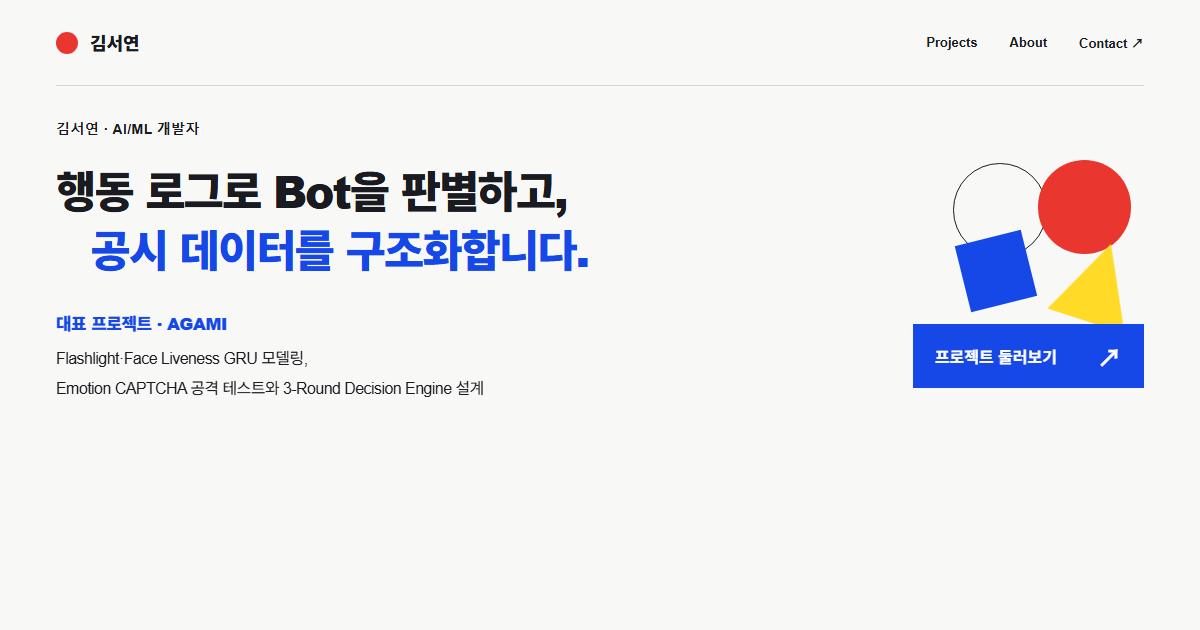
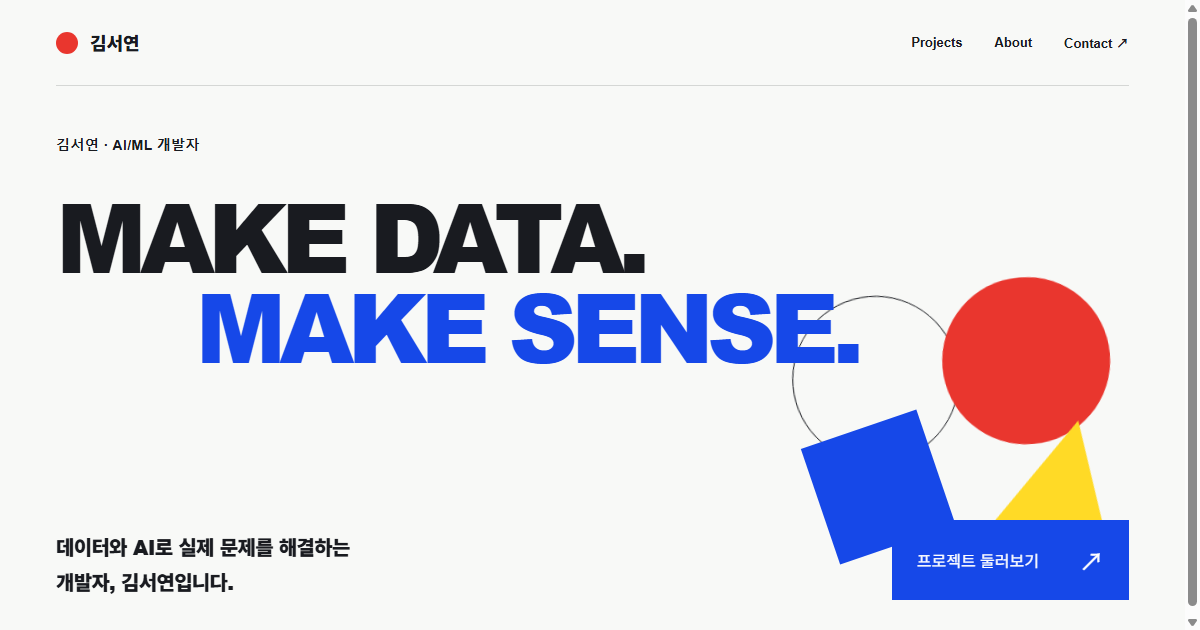
Restore original hero design

diff --git a/index.html b/index.html
@@ -63,17 +63,6 @@ html[data-motion="off"] :is(button,a):active{translate:none}
 
 /* Editorial pass: project evidence precedes decorative display. */
 html{scroll-padding-top:24px}
-.hero{padding:32px 0 24px;overflow:visible}
-.hero h1{max-width:calc(100% - 230px);margin:20px 0;font-size:clamp(30px,3.65vw,52px);line-height:1.35;letter-spacing:-.045em}
-.hero h1 span{white-space:normal;word-break:keep-all;overflow-wrap:anywhere}
-.hero h1 .second{margin-left:4%}
-.hero-art{top:74px;right:1%;width:180px;height:155px;animation:none}
-.hero-bottom{margin-top:28px;align-items:center}
-.hero-bottom p{max-width:700px;font-size:16px;line-height:1.85;word-break:keep-all}
-.hero-bottom strong{display:inline-block;color:var(--blue);font-size:17px;margin-bottom:5px}
-.ticket{min-height:48px;padding:14px 22px;font-weight:700;white-space:normal}
-.ticket:hover{transform:none;background:#1039bd}
-.shape:hover{filter:none;outline:1px solid var(--ink);outline-offset:5px}
 .section{padding:56px 0}
 .section h2{font-size:clamp(29px,3vw,42px);line-height:1.35;letter-spacing:-.035em}
 .section-label{font:13px/1.7 Arial,'Malgun Gothic',sans-serif;letter-spacing:.02em;margin-bottom:24px}
@@ -124,21 +113,10 @@ button:active,a:active{translate:none}
 a:focus-visible,button:focus-visible,summary:focus-visible{outline:3px solid var(--blue);outline-offset:3px}
 .contact a:focus-visible{outline-color:var(--yellow)}
 @media(max-width:900px){
- .hero h1{max-width:calc(100% - 145px);font-size:clamp(30px,4.8vw,40px)}
- .hero-art{width:115px;height:108px;top:100px}
- .hero-bottom{margin-top:24px;gap:24px}
  .feature-body{grid-template-columns:1fr}
  .section{padding:44px 0}
 }
 @media(max-width:600px){
- .hero{padding:24px 0 18px}
- .hero h1{max-width:100%;font-size:29px;margin:18px 0;line-height:1.4}
- .hero h1 .second{margin-left:0}
- .hero-art{width:57px;height:47px;top:15px;right:3px}
- .hero-bottom{margin-top:20px}
- .hero-bottom p{font-size:15px}
- .hero-bottom br{display:initial}
- .ticket{margin-top:18px;padding:12px 16px}
  .feature-head{gap:18px}
  .feature-head h2.agami-logo{width:72px;height:72px}
  .feature-head p{font-size:16px}
@@ -152,7 +130,7 @@ a:focus-visible,button:focus-visible,summary:focus-visible{outline:3px solid var
  .contact-arrow{font-size:13px;padding:10px 12px}
  .footer{margin-top:24px}
 }
-</style></head><body><a href="#main" class="skip">본문 바로가기</a><div class="progress" aria-hidden="true"></div><div class="wrap"><header><a href="#" class="brand" aria-label="김서연 포트폴리오 첫 화면"><span class="mark" aria-hidden="true"></span>김서연</a><nav aria-label="주요 메뉴"><a href="#agami">Projects</a><a href="#about">About</a><a href="#contact">Contact ↗</a></nav></header><main id="main"><section class="hero" aria-labelledby="hero-title"><div class="eyebrow">김서연 · AI/ML 개발자</div><h1 id="hero-title"><span>행동 로그로 Bot을 판별하고,</span><span class="second">공시 데이터를 구조화합니다.</span></h1><div class="hero-art" aria-hidden="true"><div class="shape outline"></div><div class="shape circle"></div><div class="shape square"></div><div class="shape triangle"></div></div><div class="hero-bottom"><p><strong>대표 프로젝트 · AGAMI</strong><br>Flashlight·Face Liveness GRU 모델링,<br>Emotion CAPTCHA 공격 테스트와 3-Round Decision Engine 설계</p><a href="#work" class="ticket">프로젝트 둘러보기 <span aria-hidden="true">↗</span></a></div></section><button class="motion-toggle" type="button" aria-pressed="false" aria-describedby="motion-status" hidden>애니메이션 끄기</button><p id="motion-status" class="motion-status" role="status"></p><section class="section rule" id="agami"><div class="section-label"><span>대표 프로젝트 / 01</span><span>2026.04 — 2026.07 · 4인 팀</span></div><div class="feature-head"><h2 class="agami-logo"><img src="./아가미로고.png" alt="AGAMI"></h2><div class="feature-intro"><span>행동 기반 CAPTCHA</span><p>행동·상황 이해·실시간 반응을 검증해<br>AI 공격을 방어하는 인터랙티브 CAPTCHA</p></div></div><div class="feature-body"><figure class="feature-media"><video controls playsinline preload="auto" aria-label="AGAMI CAPTCHA 시연 영상"><source src="./시연영상_아가미.mp4" type="video/mp4">브라우저가 MP4 영상을 지원하지 않습니다. <a href="./시연영상_아가미.mp4">시연 영상 열기</a></video></figure><div><p class="meta">담당 / ML 개발 및 검증</p><p class="role-summary">Flashlight·Face Liveness의 GRU 모델링, Emotion 공격 테스트·Weighted Sampling, 3-Round Decision Engine 설계를 맡았습니다.</p><div class="metric-lead">99.16<small>%</small></div><p class="metric-name">Flashlight CAPTCHA<br><strong>3-Round Bot Block Rate</strong> · 3회 누적 봇 차단율</p><div class="metrics-small"><div><strong>88.04%</strong><p>Flashlight 단일 모델<br>Accuracy</p></div><div><strong>5.94% → 0.53%</strong><p>Emotion CAPTCHA<br>Qwen Attack Pass Rate</p></div></div><a class="text-link" href="https://agami-captcha.cloud/" target="_blank" rel="noopener noreferrer">직접 체험해보기 <span aria-hidden="true">↗</span></a></div></div><details class="feature-details"><summary>문제 해결 과정과 기여 보기 <span class="plus" aria-hidden="true">+</span></summary><div class="detail-copy"><section class="case-block"><h3>문제와 내 역할</h3><p>기존 CAPTCHA가 AI에 의해 점점 쉽게 풀리는 문제에서 출발했습니다. 행동 데이터·상황 이해·실시간 반응을 검증하는 시스템에서 Flashlight·Face Liveness GRU 모델링, Emotion 공격 테스트·Weighted Sampling, 3-Round Decision Engine 설계를 맡았습니다.</p></section><section class="case-block"><h3>Flashlight · 이동 로그를 위험 점수로</h3><p>어두운 화면에서 손전등을 움직여 목표물을 찾는 방식입니다. x, y, time 로그에서 속도·가속도·방향 변화·이동 거리 등의 행동 특징을 추출하고, 시계열 특징은 GRU, 정적 특징은 MLP로 처리해 bot risk score를 산출합니다.</p><p>Flashlight 단일 모델 Accuracy는 <strong>88.04%</strong>, Flashlight 3-Round Bot Block Rate는 <strong>99.16%</strong>입니다. 서로 다른 지표로 구분해 평가했습니다.</p></section><section class="case-block"><h3>Emotion · 공격 테스트를 출제에 반영</h3><p>표정만으로 판단하기 어려운 상황 맥락 속 감정을 묻습니다. AI 공격 테스트에서 쉽게 맞히는 문제를 제거하고, 틀리는 문제의 출제 확률을 높이는 Weighted Sampling을 적용했습니다.</p><p>Emotion CAPTCHA의 Qwen Attack Pass Rate는 <strong>5.94% → 0.53%</strong>로 낮아졌습니다.</p></section><section class="case-block"><h3>Liveness · 원본 영상 대신 Landmark</h3><p>개인정보 관점에서 원본 영상 대신 Face / Hand Landmark Sequence를 사용하는 구조입니다. 얼굴의 시간적 변화는 GRU로 평가하고, 랜덤 손동작 미션은 별도로 판정해 최종 위험도에 반영합니다. 이 중 Face Liveness GRU 모델링을 담당했습니다.</p></section><section class="case-block"><h3>판단 · 단일 모델에서 누적 정책으로</h3><p>단일 모델 Accuracy만으로 실제 서비스의 안정성을 판단하기 어렵다는 점을 확인했습니다. 공격 성공 사례와 정상 사용자 오탐을 함께 분석하고 여러 라운드의 결과를 누적하는 정책을 설계하며 보안성과 사용성의 균형을 개선했습니다.</p></section><section class="case-block"><h3>한계 · 데이터 다양성과 추가 검증</h3><p>얼굴·손 데이터의 다양성이 충분하지 않아 정상 사용자 오탐과 새로운 공격 유형에 대한 추가 검증이 필요했습니다.</p><p class="case-tech">사용 기술: Python · PyTorch · scikit-learn · MediaPipe · OpenCV · GRU · CUDA</p></section></div></details></section><section class="section rule" id="work"><h2>데이터 분석과 서비스 개발</h2><p class="read-more-hint">프로젝트를 선택하면 과정과 기여, 결과를 자세히 볼 수 있습니다.</p><details class="project" id="project-2"><summary><span class="num">02</span><div><h3>DART Disclosure Analyst Agent</h3><p>DART 공시 데이터를 구조화하고 원공시와 정정공시의 관계를 추적할 수 있도록 설계한 공시 분석 Agent 프로젝트</p><span class="meta">2026.08 — 2026.09 / 데이터 파싱·전처리</span></div><span class="plus" aria-hidden="true">+</span></summary><div class="project-open"><div class="detail-copy"><p class="team">4인 팀 · 데이터 파싱·전처리</p><section class="case-block"><h4>범위와 문제</h4><p>약 <strong>4,204건</strong>의 공시, <strong>70개 기업</strong>, <strong>20개 산업군</strong>을 다뤘습니다. 정정된 공시를 이전 원문과 연결해 Agent가 오래된 내용을 사용하는 위험을 줄일 수 있는 데이터 구조가 핵심이었습니다.</p></section><section class="case-block"><h4>내 기여 · 파싱과 구조화</h4><p>JSON / XML을 파싱하고 공시 본문과 표를 구조화했습니다. 공통 스키마와 원공시–정정공시 연결 로직을 설계했습니다.</p></section><section class="case-block"><h4>정정공시 연결 순서</h4><ol><li>Explicit receipt link</li><li>Company + Report + Date</li><li>Classification fallback</li><li>Ambiguous</li><li>Unresolved</li></ol><p class="case-tech">사용 기술: Python · JSON · XML · Data Parsing · Data Preprocessing</p></section></div></div></details><details class="project" id="project-3"><summary><span class="num">03</span><div><h3>부동산 시장 × 소비 변화 분석</h3><p>부동산 가격 변화와 지역별 소비 변화의 관계를 분석하고 XGBoost Regression으로 소비 변화율을 예측한 프로젝트</p><span class="meta">2026.03 — 2026.04 / 데이터 전처리·모델링</span></div><span class="plus" aria-hidden="true">+</span></summary><div class="project-open"><div class="detail-copy"><p class="team">4인 팀 · 데이터 전처리·모델링</p><section class="case-block"><h4>질문 · 지역 마케팅에 활용할 수 있을까</h4><p>부동산 가격 변화와 특정 소비 변화의 관계를 분석하고 지역 마케팅 타깃 선정에 활용할 수 있는지 검증했습니다.</p></section><section class="case-block"><h4>내 기여 · 데이터 정렬부터 예측까지</h4><p>지역명을 표준화하고 결측치를 처리한 뒤 기간을 맞춰 여러 데이터 테이블을 결합했습니다. Snowflake 기반 학습 데이터셋을 구성하고 XGBoost Regression으로 지역별 특정 소비 변화율을 예측하며 RMSE 기준으로 반복 튜닝했습니다.</p></section><section class="case-block"><h4>결론의 범위와 다음 검증</h4><p>카드 소비 데이터의 기간과 표본이 충분하지 않아 <strong>신뢰할 수 있는 지역 마케팅 결론까지 도출하지는 않았습니다.</strong> 다시 진행한다면 더 긴 기간의 카드 소비 데이터를 확보해 시장 변화 전후를 비교합니다.</p><p class="case-tech">사용 기술: Snowflake · Python · Pandas · NumPy · scikit-learn · XGBoost</p></section></div></div></details><details class="project" id="project-4"><summary><span class="num">04</span><div><h3>서울 공공자전거 이용 분석</h3><p>서울 따릉이 이용 데이터를 날씨·요일·대여 정보와 결합해 이용 패턴과 이용권 추천 가능성을 분석한 프로젝트</p><span class="meta">2024.09 — 2024.12 / 데이터 전처리·모델링</span></div><span class="plus" aria-hidden="true">+</span></summary><div class="project-open"><div class="detail-copy"><p class="team">2인 팀 · 데이터 전처리·모델링</p><section class="case-block"><h4>내 기여 · 서로 다른 지역명 연결</h4><p>대여 시간·대여소·이용 시간·이용권 유형에 날씨와 요일 정보를 결합했습니다. 데이터셋마다 시·구·동 표기가 달라 <strong>지역명을 직접 매핑</strong>해 연결했습니다.</p><p>이용 패턴과 이용권 추천 가능성을 분석하며 Logistic Regression, Random Forest, XGBoost로 모델링했습니다.</p></section><section class="case-block"><h4>확인한 패턴과 한계</h4><p>비가 오는 날 이용량이 감소하고 맑고 따뜻한 날 증가하는 패턴을 확인했습니다. 다만 사용자 단위 정보가 부족한 데이터 구조 때문에 이용권 추천 성능에는 한계가 있었습니다.</p><p class="case-tech">사용 기술: Python · Pandas · NumPy · scikit-learn · XGBoost · Matplotlib</p></section></div></div></details><details class="project" id="project-5"><summary><span class="num">05</span><div><h3>교내 공개 강의평가 서비스</h3><p>학생이 직접 강의와 교수 정보를 검색하고 평가·댓글을 공유할 수 있도록 구현한 공개 강의평가 웹서비스</p><span class="meta">2024.09 — 2024.12 / PM / DB 설계 및 구축</span></div><span class="plus" aria-hidden="true">+</span></summary><div class="project-open"><div class="detail-copy"><p class="team">5인 팀 · PM / DB 설계 및 구축</p><section class="case-block"><h4>서비스와 내 역할</h4><p>학생이 강의·교수 정보를 검색하고 리뷰·별점·댓글을 공유하는 웹서비스입니다. 회원가입·로그인 기능도 제공합니다.</p><p>PM으로 요구사항, 일정·회의, 기능 우선순위를 관리하고 DB 설계·구축과 Oracle DB의 서비스 연결을 담당했습니다.</p></section><section class="case-block"><h4>직접 설계한 데이터 구조</h4><p><strong>User / Professor / Lecture / Review / Rating / Comment</strong> 구조의 ERD를 설계하고 1NF–3NF 정규화를 적용했습니다.</p><p class="case-tech">사용 기술: Oracle · SQL · ERD · Normalization · HTML · CSS · JavaScript</p></section></div></div></details><details class="project" id="project-6"><summary><span class="num">06</span><div><h3>음식 배달 반품 계절성 분석</h3><p>계절·음식 종류·주문 시간·배달 거리·날씨를 이용해 음식 배달 반품 발생 가능성을 분석한 프로젝트</p><span class="meta">2025.09 — 2025.12 / PM / 데이터 전처리·모델링</span></div><span class="plus" aria-hidden="true">+</span></summary><div class="project-open"><div class="detail-copy"><p class="team">4인 팀 · PM / 데이터 전처리·모델링</p><section class="case-block"><h4>분석 질문과 담당 범위</h4><p>계절·음식 종류·주문 시간·배달 거리·온도·날씨를 이용해 음식 배달 반품 발생 가능성을 분석했습니다.</p><p>PM으로 일정 관리, 회의 진행, 역할 분배와 분석 방향 설정을 맡고 데이터 전처리와 <strong>일부 모델링</strong>을 담당했습니다.</p></section><section class="case-block"><h4>전처리와 모델 실험</h4><p>결측치와 이상치를 처리하고 여러 테이블을 결합한 뒤 XGBoost 기반 예측 모델을 실험했습니다.</p><p class="case-tech">사용 기술: Python · Pandas · NumPy · scikit-learn · XGBoost · Matplotlib</p></section></div></div></details></section><section class="section rule about" id="about"><div><h2>프로젝트에서<br>사용한 기술</h2><p>AGAMI에서는 모델 학습과 공격 테스트를, DART에서는 원문 파싱과 정정공시 연결을 맡았습니다.</p><p>교내 강의평가 서비스에서는 요구사항과 우선순위를 정리하고 Oracle DB를 설계·구축했습니다.</p></div><dl class="skills"><div><dt>모델링 · GRU / PyTorch</dt><dd>AGAMI의 Flashlight·Face Liveness GRU 모델링을 담당했습니다. Flashlight는 시계열 특징을 GRU, 정적 특징을 MLP로 처리합니다.</dd></div><div><dt>모델 검증 · Attack Testing / Weighted Sampling</dt><dd>Emotion CAPTCHA 공격 테스트로 AI가 쉽게 맞히는 문제를 제외하고, AI가 틀리는 문제의 출제 확률을 높였습니다.</dd></div><div><dt>데이터 · Python / JSON·XML / Snowflake</dt><dd>DART 공시 본문·표를 공통 스키마로 구조화했습니다. 부동산 분석에서는 지역명과 기간을 맞추고 Snowflake 기반 학습 데이터셋을 구성했습니다.</dd></div><div><dt>데이터베이스 · Oracle / SQL / ERD</dt><dd>강의평가 서비스의 User·Professor·Lecture·Review·Rating·Comment 구조를 설계하고 1NF–3NF 정규화와 서비스 연결을 담당했습니다.</dd></div></dl></section><section class="section rule education"><div><h2>배움의 기록.</h2><div class="timeline"><div><time>2025.12 — 2026.07</time><section><h3>카카오클라우드 AIaaS<br>마스터 클래스 4기</h3><p>우수 수료팀 선정<br>Final Project: AGAMI · ML 개발 및 검증</p></section></div><div><time>2024.03 — 졸업유예</time><section><h3>홍익대학교 세종캠퍼스</h3><p>소프트웨어융합학과 · 편입</p></section></div><div><time>2022.03 — 2024.02</time><section><h3>숭의여자대학교</h3><p>IT비즈니스과</p></section></div></div></div><aside class="cert"><h3>자격</h3><p>AWS Certified Cloud Practitioner (CLF)</p><p>정보처리기사 필기 합격</p></aside></section></main></div><footer class="contact" id="contact"><div class="wrap"><div class="contact-top"><h2>연락처</h2><a class="contact-arrow" href="mailto:k0ng2slove@gmail.com" aria-label="김서연에게 이메일 보내기">이메일 보내기 <span aria-hidden="true">↗</span></a></div><a href="mailto:k0ng2slove@gmail.com" class="email">k0ng2slove@gmail.com</a><div class="contact-links"><a href="https://github.com/lovekongs-ui" target="_blank" rel="noopener noreferrer">GitHub ↗</a><a href="tel:01026423881">010-2642-3881</a></div><div class="footer"><span>김서연 · AI/ML PORTFOLIO</span><a href="#">BACK TO TOP ↑</a></div></div></footer><script>
+</style></head><body><a href="#main" class="skip">본문 바로가기</a><div class="progress" aria-hidden="true"></div><div class="wrap"><header><a href="#" class="brand" aria-label="김서연 포트폴리오 첫 화면"><span class="mark" aria-hidden="true"></span>김서연</a><nav aria-label="주요 메뉴"><a href="#agami">Projects</a><a href="#about">About</a><a href="#contact">Contact ↗</a></nav></header><main id="main"><section class="hero" aria-labelledby="hero-title"><div class="eyebrow">김서연 · AI/ML 개발자</div><h1 id="hero-title"><span>MAKE DATA.</span><span class="second">MAKE SENSE.</span></h1><div class="hero-art" aria-hidden="true"><div class="shape outline"></div><div class="shape circle"></div><div class="shape square"></div><div class="shape triangle"></div></div><div class="hero-bottom"><p><strong>데이터와 AI로 실제 문제를 해결하는<br> 개발자, 김서연입니다.</strong></p><a href="#work" class="ticket">프로젝트 둘러보기 <span aria-hidden="true">↗</span></a></div></section><button class="motion-toggle" type="button" aria-pressed="false" aria-describedby="motion-status" hidden>애니메이션 끄기</button><p id="motion-status" class="motion-status" role="status"></p><section class="section rule" id="agami"><div class="section-label"><span>대표 프로젝트 / 01</span><span>2026.04 — 2026.07 · 4인 팀</span></div><div class="feature-head"><h2 class="agami-logo"><img src="./아가미로고.png" alt="AGAMI"></h2><div class="feature-intro"><span>행동 기반 CAPTCHA</span><p>행동·상황 이해·실시간 반응을 검증해<br>AI 공격을 방어하는 인터랙티브 CAPTCHA</p></div></div><div class="feature-body"><figure class="feature-media"><video controls playsinline preload="auto" aria-label="AGAMI CAPTCHA 시연 영상"><source src="./시연영상_아가미.mp4" type="video/mp4">브라우저가 MP4 영상을 지원하지 않습니다. <a href="./시연영상_아가미.mp4">시연 영상 열기</a></video></figure><div><p class="meta">담당 / ML 개발 및 검증</p><p class="role-summary">Flashlight·Face Liveness의 GRU 모델링, Emotion 공격 테스트·Weighted Sampling, 3-Round Decision Engine 설계를 맡았습니다.</p><div class="metric-lead">99.16<small>%</small></div><p class="metric-name">Flashlight CAPTCHA<br><strong>3-Round Bot Block Rate</strong> · 3회 누적 봇 차단율</p><div class="metrics-small"><div><strong>88.04%</strong><p>Flashlight 단일 모델<br>Accuracy</p></div><div><strong>5.94% → 0.53%</strong><p>Emotion CAPTCHA<br>Qwen Attack Pass Rate</p></div></div><a class="text-link" href="https://agami-captcha.cloud/" target="_blank" rel="noopener noreferrer">직접 체험해보기 <span aria-hidden="true">↗</span></a></div></div><details class="feature-details"><summary>문제 해결 과정과 기여 보기 <span class="plus" aria-hidden="true">+</span></summary><div class="detail-copy"><section class="case-block"><h3>문제와 내 역할</h3><p>기존 CAPTCHA가 AI에 의해 점점 쉽게 풀리는 문제에서 출발했습니다. 행동 데이터·상황 이해·실시간 반응을 검증하는 시스템에서 Flashlight·Face Liveness GRU 모델링, Emotion 공격 테스트·Weighted Sampling, 3-Round Decision Engine 설계를 맡았습니다.</p></section><section class="case-block"><h3>Flashlight · 이동 로그를 위험 점수로</h3><p>어두운 화면에서 손전등을 움직여 목표물을 찾는 방식입니다. x, y, time 로그에서 속도·가속도·방향 변화·이동 거리 등의 행동 특징을 추출하고, 시계열 특징은 GRU, 정적 특징은 MLP로 처리해 bot risk score를 산출합니다.</p><p>Flashlight 단일 모델 Accuracy는 <strong>88.04%</strong>, Flashlight 3-Round Bot Block Rate는 <strong>99.16%</strong>입니다. 서로 다른 지표로 구분해 평가했습니다.</p></section><section class="case-block"><h3>Emotion · 공격 테스트를 출제에 반영</h3><p>표정만으로 판단하기 어려운 상황 맥락 속 감정을 묻습니다. AI 공격 테스트에서 쉽게 맞히는 문제를 제거하고, 틀리는 문제의 출제 확률을 높이는 Weighted Sampling을 적용했습니다.</p><p>Emotion CAPTCHA의 Qwen Attack Pass Rate는 <strong>5.94% → 0.53%</strong>로 낮아졌습니다.</p></section><section class="case-block"><h3>Liveness · 원본 영상 대신 Landmark</h3><p>개인정보 관점에서 원본 영상 대신 Face / Hand Landmark Sequence를 사용하는 구조입니다. 얼굴의 시간적 변화는 GRU로 평가하고, 랜덤 손동작 미션은 별도로 판정해 최종 위험도에 반영합니다. 이 중 Face Liveness GRU 모델링을 담당했습니다.</p></section><section class="case-block"><h3>판단 · 단일 모델에서 누적 정책으로</h3><p>단일 모델 Accuracy만으로 실제 서비스의 안정성을 판단하기 어렵다는 점을 확인했습니다. 공격 성공 사례와 정상 사용자 오탐을 함께 분석하고 여러 라운드의 결과를 누적하는 정책을 설계하며 보안성과 사용성의 균형을 개선했습니다.</p></section><section class="case-block"><h3>한계 · 데이터 다양성과 추가 검증</h3><p>얼굴·손 데이터의 다양성이 충분하지 않아 정상 사용자 오탐과 새로운 공격 유형에 대한 추가 검증이 필요했습니다.</p><p class="case-tech">사용 기술: Python · PyTorch · scikit-learn · MediaPipe · OpenCV · GRU · CUDA</p></section></div></details></section><section class="section rule" id="work"><h2>데이터 분석과 서비스 개발</h2><p class="read-more-hint">프로젝트를 선택하면 과정과 기여, 결과를 자세히 볼 수 있습니다.</p><details class="project" id="project-2"><summary><span class="num">02</span><div><h3>DART Disclosure Analyst Agent</h3><p>DART 공시 데이터를 구조화하고 원공시와 정정공시의 관계를 추적할 수 있도록 설계한 공시 분석 Agent 프로젝트</p><span class="meta">2026.08 — 2026.09 / 데이터 파싱·전처리</span></div><span class="plus" aria-hidden="true">+</span></summary><div class="project-open"><div class="detail-copy"><p class="team">4인 팀 · 데이터 파싱·전처리</p><section class="case-block"><h4>범위와 문제</h4><p>약 <strong>4,204건</strong>의 공시, <strong>70개 기업</strong>, <strong>20개 산업군</strong>을 다뤘습니다. 정정된 공시를 이전 원문과 연결해 Agent가 오래된 내용을 사용하는 위험을 줄일 수 있는 데이터 구조가 핵심이었습니다.</p></section><section class="case-block"><h4>내 기여 · 파싱과 구조화</h4><p>JSON / XML을 파싱하고 공시 본문과 표를 구조화했습니다. 공통 스키마와 원공시–정정공시 연결 로직을 설계했습니다.</p></section><section class="case-block"><h4>정정공시 연결 순서</h4><ol><li>Explicit receipt link</li><li>Company + Report + Date</li><li>Classification fallback</li><li>Ambiguous</li><li>Unresolved</li></ol><p class="case-tech">사용 기술: Python · JSON · XML · Data Parsing · Data Preprocessing</p></section></div></div></details><details class="project" id="project-3"><summary><span class="num">03</span><div><h3>부동산 시장 × 소비 변화 분석</h3><p>부동산 가격 변화와 지역별 소비 변화의 관계를 분석하고 XGBoost Regression으로 소비 변화율을 예측한 프로젝트</p><span class="meta">2026.03 — 2026.04 / 데이터 전처리·모델링</span></div><span class="plus" aria-hidden="true">+</span></summary><div class="project-open"><div class="detail-copy"><p class="team">4인 팀 · 데이터 전처리·모델링</p><section class="case-block"><h4>질문 · 지역 마케팅에 활용할 수 있을까</h4><p>부동산 가격 변화와 특정 소비 변화의 관계를 분석하고 지역 마케팅 타깃 선정에 활용할 수 있는지 검증했습니다.</p></section><section class="case-block"><h4>내 기여 · 데이터 정렬부터 예측까지</h4><p>지역명을 표준화하고 결측치를 처리한 뒤 기간을 맞춰 여러 데이터 테이블을 결합했습니다. Snowflake 기반 학습 데이터셋을 구성하고 XGBoost Regression으로 지역별 특정 소비 변화율을 예측하며 RMSE 기준으로 반복 튜닝했습니다.</p></section><section class="case-block"><h4>결론의 범위와 다음 검증</h4><p>카드 소비 데이터의 기간과 표본이 충분하지 않아 <strong>신뢰할 수 있는 지역 마케팅 결론까지 도출하지는 않았습니다.</strong> 다시 진행한다면 더 긴 기간의 카드 소비 데이터를 확보해 시장 변화 전후를 비교합니다.</p><p class="case-tech">사용 기술: Snowflake · Python · Pandas · NumPy · scikit-learn · XGBoost</p></section></div></div></details><details class="project" id="project-4"><summary><span class="num">04</span><div><h3>서울 공공자전거 이용 분석</h3><p>서울 따릉이 이용 데이터를 날씨·요일·대여 정보와 결합해 이용 패턴과 이용권 추천 가능성을 분석한 프로젝트</p><span class="meta">2024.09 — 2024.12 / 데이터 전처리·모델링</span></div><span class="plus" aria-hidden="true">+</span></summary><div class="project-open"><div class="detail-copy"><p class="team">2인 팀 · 데이터 전처리·모델링</p><section class="case-block"><h4>내 기여 · 서로 다른 지역명 연결</h4><p>대여 시간·대여소·이용 시간·이용권 유형에 날씨와 요일 정보를 결합했습니다. 데이터셋마다 시·구·동 표기가 달라 <strong>지역명을 직접 매핑</strong>해 연결했습니다.</p><p>이용 패턴과 이용권 추천 가능성을 분석하며 Logistic Regression, Random Forest, XGBoost로 모델링했습니다.</p></section><section class="case-block"><h4>확인한 패턴과 한계</h4><p>비가 오는 날 이용량이 감소하고 맑고 따뜻한 날 증가하는 패턴을 확인했습니다. 다만 사용자 단위 정보가 부족한 데이터 구조 때문에 이용권 추천 성능에는 한계가 있었습니다.</p><p class="case-tech">사용 기술: Python · Pandas · NumPy · scikit-learn · XGBoost · Matplotlib</p></section></div></div></details><details class="project" id="project-5"><summary><span class="num">05</span><div><h3>교내 공개 강의평가 서비스</h3><p>학생이 직접 강의와 교수 정보를 검색하고 평가·댓글을 공유할 수 있도록 구현한 공개 강의평가 웹서비스</p><span class="meta">2024.09 — 2024.12 / PM / DB 설계 및 구축</span></div><span class="plus" aria-hidden="true">+</span></summary><div class="project-open"><div class="detail-copy"><p class="team">5인 팀 · PM / DB 설계 및 구축</p><section class="case-block"><h4>서비스와 내 역할</h4><p>학생이 강의·교수 정보를 검색하고 리뷰·별점·댓글을 공유하는 웹서비스입니다. 회원가입·로그인 기능도 제공합니다.</p><p>PM으로 요구사항, 일정·회의, 기능 우선순위를 관리하고 DB 설계·구축과 Oracle DB의 서비스 연결을 담당했습니다.</p></section><section class="case-block"><h4>직접 설계한 데이터 구조</h4><p><strong>User / Professor / Lecture / Review / Rating / Comment</strong> 구조의 ERD를 설계하고 1NF–3NF 정규화를 적용했습니다.</p><p class="case-tech">사용 기술: Oracle · SQL · ERD · Normalization · HTML · CSS · JavaScript</p></section></div></div></details><details class="project" id="project-6"><summary><span class="num">06</span><div><h3>음식 배달 반품 계절성 분석</h3><p>계절·음식 종류·주문 시간·배달 거리·날씨를 이용해 음식 배달 반품 발생 가능성을 분석한 프로젝트</p><span class="meta">2025.09 — 2025.12 / PM / 데이터 전처리·모델링</span></div><span class="plus" aria-hidden="true">+</span></summary><div class="project-open"><div class="detail-copy"><p class="team">4인 팀 · PM / 데이터 전처리·모델링</p><section class="case-block"><h4>분석 질문과 담당 범위</h4><p>계절·음식 종류·주문 시간·배달 거리·온도·날씨를 이용해 음식 배달 반품 발생 가능성을 분석했습니다.</p><p>PM으로 일정 관리, 회의 진행, 역할 분배와 분석 방향 설정을 맡고 데이터 전처리와 <strong>일부 모델링</strong>을 담당했습니다.</p></section><section class="case-block"><h4>전처리와 모델 실험</h4><p>결측치와 이상치를 처리하고 여러 테이블을 결합한 뒤 XGBoost 기반 예측 모델을 실험했습니다.</p><p class="case-tech">사용 기술: Python · Pandas · NumPy · scikit-learn · XGBoost · Matplotlib</p></section></div></div></details></section><section class="section rule about" id="about"><div><h2>프로젝트에서<br>사용한 기술</h2><p>AGAMI에서는 모델 학습과 공격 테스트를, DART에서는 원문 파싱과 정정공시 연결을 맡았습니다.</p><p>교내 강의평가 서비스에서는 요구사항과 우선순위를 정리하고 Oracle DB를 설계·구축했습니다.</p></div><dl class="skills"><div><dt>모델링 · GRU / PyTorch</dt><dd>AGAMI의 Flashlight·Face Liveness GRU 모델링을 담당했습니다. Flashlight는 시계열 특징을 GRU, 정적 특징을 MLP로 처리합니다.</dd></div><div><dt>모델 검증 · Attack Testing / Weighted Sampling</dt><dd>Emotion CAPTCHA 공격 테스트로 AI가 쉽게 맞히는 문제를 제외하고, AI가 틀리는 문제의 출제 확률을 높였습니다.</dd></div><div><dt>데이터 · Python / JSON·XML / Snowflake</dt><dd>DART 공시 본문·표를 공통 스키마로 구조화했습니다. 부동산 분석에서는 지역명과 기간을 맞추고 Snowflake 기반 학습 데이터셋을 구성했습니다.</dd></div><div><dt>데이터베이스 · Oracle / SQL / ERD</dt><dd>강의평가 서비스의 User·Professor·Lecture·Review·Rating·Comment 구조를 설계하고 1NF–3NF 정규화와 서비스 연결을 담당했습니다.</dd></div></dl></section><section class="section rule education"><div><h2>배움의 기록.</h2><div class="timeline"><div><time>2025.12 — 2026.07</time><section><h3>카카오클라우드 AIaaS<br>마스터 클래스 4기</h3><p>우수 수료팀 선정<br>Final Project: AGAMI · ML 개발 및 검증</p></section></div><div><time>2024.03 — 졸업유예</time><section><h3>홍익대학교 세종캠퍼스</h3><p>소프트웨어융합학과 · 편입</p></section></div><div><time>2022.03 — 2024.02</time><section><h3>숭의여자대학교</h3><p>IT비즈니스과</p></section></div></div></div><aside class="cert"><h3>자격</h3><p>AWS Certified Cloud Practitioner (CLF)</p><p>정보처리기사 필기 합격</p></aside></section></main></div><footer class="contact" id="contact"><div class="wrap"><div class="contact-top"><h2>연락처</h2><a class="contact-arrow" href="mailto:k0ng2slove@gmail.com" aria-label="김서연에게 이메일 보내기">이메일 보내기 <span aria-hidden="true">↗</span></a></div><a href="mailto:k0ng2slove@gmail.com" class="email">k0ng2slove@gmail.com</a><div class="contact-links"><a href="https://github.com/lovekongs-ui" target="_blank" rel="noopener noreferrer">GitHub ↗</a><a href="tel:01026423881">010-2642-3881</a></div><div class="footer"><span>김서연 · AI/ML PORTFOLIO</span><a href="#">BACK TO TOP ↑</a></div></div></footer><script>
 (() => {
   const media = matchMedia('(prefers-reduced-motion: reduce)');
   const root = document.documentElement;
@@ -169,10 +147,10 @@ a:focus-visible,button:focus-visible,summary:focus-visible{outline:3px solid var
     frame = 0;
     const max = root.scrollHeight - innerHeight;
     progress.style.transform = 'scaleX(' + (max > 0 ? Math.min(1, Math.max(0, scrollY / max)) : 0) + ')';
-
+    const p = Math.min(1, Math.max(0, scrollY / Math.max(hero.offsetHeight, 1)));
     shapes.forEach((shape, i) => {
       shape.style.transform = off ? 'none' :
-        'translate3d(' + px * (i + 1) * 2 + 'px,' + py * (i + 1) * 2 + 'px,0)';
+        'translate3d(' + px * (i + 1) * 5 + 'px,' + (py * (i + 1) * 4 - p * (i + 1) * 16) + 'px,0) rotate(' + p * (i % 2 ? 20 : -25) + 'deg)';
     });
   }
   function tick() { if (!frame) frame = requestAnimationFrame(render); }

diff --git a/README.md b/README.md
@@ -39,7 +39,7 @@ HTML·CSS·JavaScript로 동작하는 정적 사이트입니다. 외부 폰트·
 - 사실 기준은 `portfolio-source.md`입니다. 6개 프로젝트의 역할·기간·팀 규모를 유지했습니다.
 - 99.16% = Flashlight 3-Round Bot Block Rate, 88.04% = Flashlight 단일 모델 Accuracy, 5.94% → 0.53% = Emotion CAPTCHA Qwen Attack Pass Rate입니다.
 - DART 개인 기여는 파싱·구조화·공통 스키마·정정공시 연결 로직으로 한정했습니다.
-- 첫 화면에서 실제 담당 업무와 AGAMI 기여를 소개합니다. CSS 도형은 프로젝트 탐색 쪽으로 시선을 유도하는 작은 묶음으로 정리했고, AGAMI에는 실제 서비스 시연 영상을 사용했습니다. 기술은 프로젝트에서 사용한 맥락과 함께 소개합니다.
+- 첫 화면은 `MAKE DATA. MAKE SENSE.`의 큰 타이포그래피와 원색 CSS 도형 디자인입니다. AGAMI에는 실제 서비스 시연 영상을 사용하며, 상세 페이지의 기여 설명과 프로젝트 맥락을 담은 기술 소개는 유지합니다.
 - 프로젝트 제목/상세 버튼은 클릭, Enter, Space로 펼치거나 닫습니다. Tab으로 링크와 버튼을 이동하며, 첫 번째 포커스는 본문 바로가기입니다.
 - **애니메이션 끄기** 버튼이 눌린 상태(`aria-pressed=true`)이면 움직임이 꺼집니다. 시스템의 `prefers-reduced-motion: reduce`가 우선이며 이때 버튼은 현재 상태를 보여주고 변경하지 않습니다. 시스템 설정을 해제하면 페이지 내 수동 설정으로 돌아갑니다. 수동 설정은 새로고침 시 초기화됩니다.
 - 도형의 진입·스크롤 회전과 버튼 이동은 제거했습니다. 모션을 끄면 제한된 포인터 반응과 부드러운 스크롤을 멈춥니다. 읽기 진행선과 상세 열림 아이콘은 상태 표시로 즉시 갱신됩니다.
